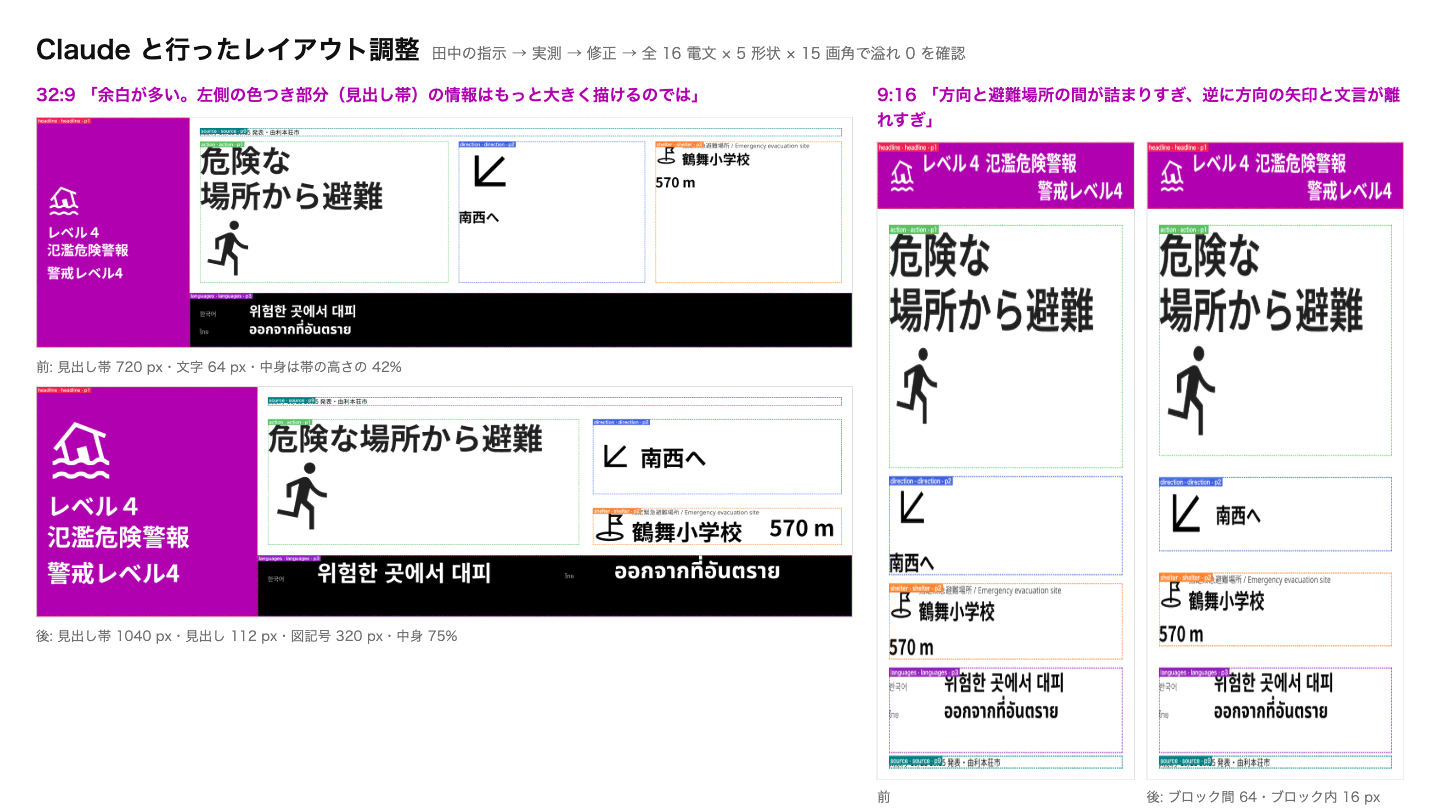
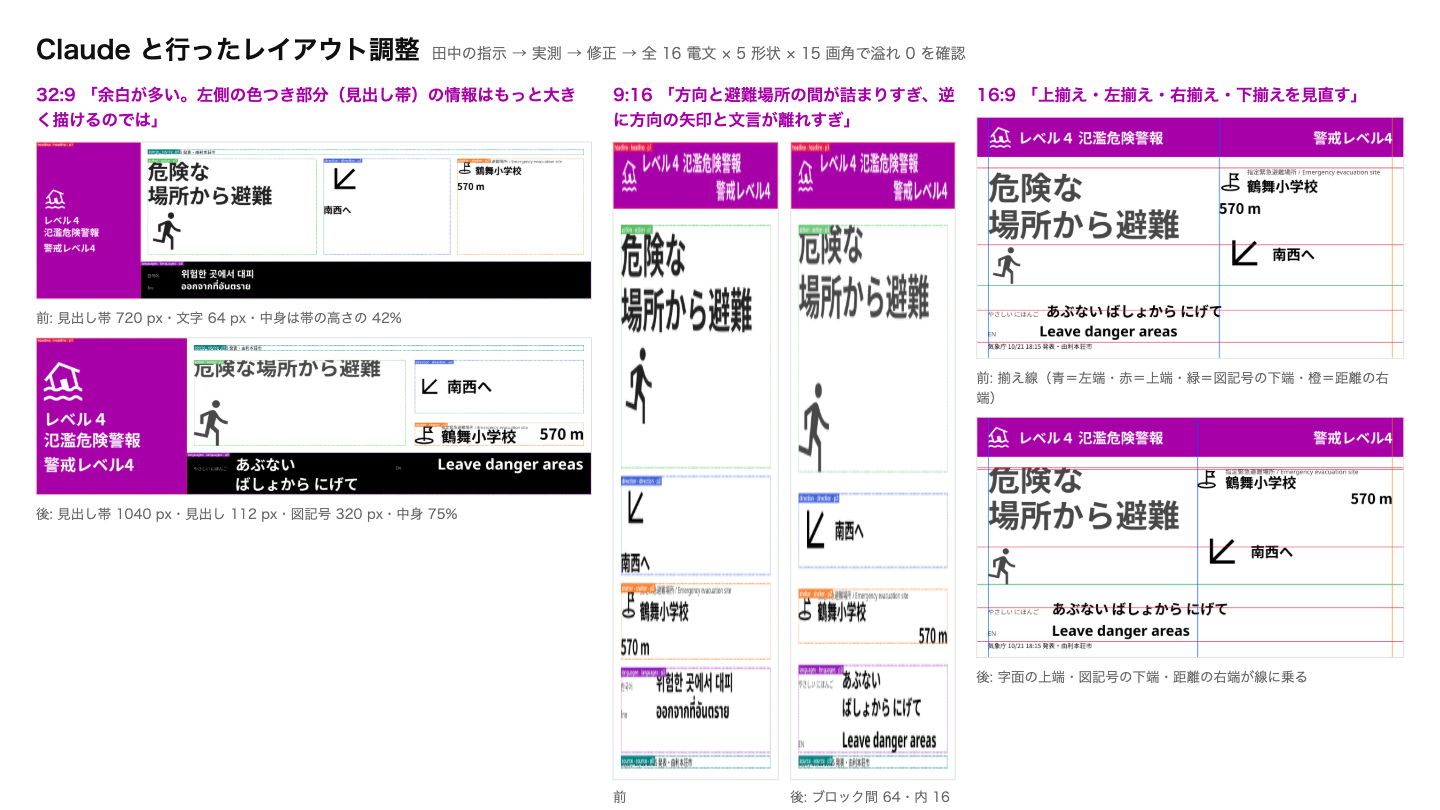
feat(app): cells align on shared lines; stills show the easy Japanese + English pair
Following the owner's review ("align top, left, right and bottom to the grid"):
- Body text is trimmed to the cap height and the baseline (text-box), so the
  first line of every body cell starts on the cell's top edge and cells in one
  row share it; cells clip 24 px outside so kanji above the cap stay visible.
- Each pictogram measures its drawn ink (viewBox margin, stroke, rotation) and
  moves it onto the cell's left line; the action pictogram also sits on the
  cell's bottom line. The box is unchanged, so overflow checks are not affected.
- The distance is right-aligned to the cell's right edge, the language label
  column is a fixed 256, the shelter kind sits 16 above the name.
- 16:9 columns are 1:1 (were 5:4) so an 11-character shelter name fits one line.

Stills are taken at t = 13.5 s, one second into the easy Japanese + English
pair (rule in app/layout/README.md); the admin preview uses 1 s. 19 bulletins x
(5 shapes + 15 aspects) render with no overflow and no missing required cell.

diff --git a/app/app/components/PictogramMark.vue b/app/app/components/PictogramMark.vue
@@ -1,5 +1,5 @@
 <script setup lang="ts">
-const props = defineProps<{ id: string; sizePx: number; rotation?: number }>()
+const props = defineProps<{ id: string; sizePx: number; rotation?: number; alignBottom?: boolean }>()
 
 const SVG_BY_PATH = import.meta.glob<string>('../../public/picto/*.svg', {
   eager: true,
@@ -12,6 +12,37 @@ const PLACEHOLDER_LABEL_MIN_PX = 12
 
 const svg = computed(() => SVG_BY_PATH[`../../public/picto/${props.id}.svg`])
 const labelPx = computed(() => Math.max(PLACEHOLDER_LABEL_MIN_PX, Math.round(props.sizePx * PLACEHOLDER_LABEL_RATIO)))
+const glyph = ref<HTMLElement>()
+const ink = ref({ dx: 0, dy: 0 })
+
+// Each symbol sits inside its viewBox with its own margin (and an arrow's changes as it turns), so the
+// drawn ink, not the box, is moved onto the cell's left line (and onto its bottom line when asked).
+function measureInk() {
+  const svgEl = glyph.value?.querySelector('svg')
+  if (!svgEl) return
+  const vb = svgEl.viewBox.baseVal
+  const box = svgEl.getBBox()
+  const stroke = svgEl.getAttribute('stroke')
+  const half = stroke && stroke !== 'none' ? Number(svgEl.getAttribute('stroke-width') ?? 0) / 2 : 0
+  const angle = ((props.rotation ?? 0) * Math.PI) / 180
+  const cx = vb.x + vb.width / 2
+  const cy = vb.y + vb.height / 2
+  const corners = [
+    [box.x - half, box.y - half],
+    [box.x + box.width + half, box.y - half],
+    [box.x - half, box.y + box.height + half],
+    [box.x + box.width + half, box.y + box.height + half],
+  ].map(([x, y]) => [cx + (x! - cx) * Math.cos(angle) - (y! - cy) * Math.sin(angle), cy + (x! - cx) * Math.sin(angle) + (y! - cy) * Math.cos(angle)])
+  const left = Math.min(...corners.map(([x]) => x!))
+  const bottom = Math.max(...corners.map(([, y]) => y!))
+  ink.value = {
+    dx: -Math.max(0, (left - vb.x) / vb.width),
+    dy: props.alignBottom ? Math.max(0, (vb.y + vb.height - bottom) / vb.height) : 0,
+  }
+}
+
+onMounted(measureInk)
+watch(() => [props.id, props.rotation, props.alignBottom], () => nextTick(measureInk))
 </script>
 
 <template>
@@ -19,9 +50,9 @@ const labelPx = computed(() => Math.max(PLACEHOLDER_LABEL_MIN_PX, Math.round(pro
     class="pictogram"
     :data-pictogram="id"
     :data-pictogram-missing="svg ? undefined : '1'"
-    :style="{ '--size': sizePx, '--label': labelPx, '--rotation': `${rotation ?? 0}deg` }"
+    :style="{ '--size': sizePx, '--label': labelPx, '--rotation': `${rotation ?? 0}deg`, '--ink-dx': ink.dx, '--ink-dy': ink.dy }"
   >
-    <div v-if="svg" class="glyph" aria-hidden="true" v-html="svg" />
+    <div v-if="svg" ref="glyph" class="glyph" aria-hidden="true" v-html="svg" />
     <span v-else class="placeholder">{{ id }}</span>
   </div>
 </template>
@@ -38,7 +69,7 @@ const labelPx = computed(() => Math.max(PLACEHOLDER_LABEL_MIN_PX, Math.round(pro
 .glyph {
   width: 100%;
   height: 100%;
-  transform: rotate(var(--rotation));
+  transform: translate(calc(var(--ink-dx) * 100%), calc(var(--ink-dy) * 100%)) rotate(var(--rotation));
 }
 .glyph :deep(svg) {
   display: block;

diff --git a/app/app/components/ScreenCell.vue b/app/app/components/ScreenCell.vue
@@ -41,7 +41,7 @@ const currentGroup = computed(() => (languageGroups.value.length ? props.languag
     <template v-else-if="cell.role === 'action'">
       <p class="t-action action-text">{{ cell.text.ja }}</p>
       <div class="action-sub">
-        <PictogramMark v-if="cell.pictogram && pictogramPx" :id="cell.pictogram" :size-px="pictogramPx" />
+        <PictogramMark v-if="cell.pictogram && pictogramPx" :id="cell.pictogram" :size-px="pictogramPx" align-bottom />
         <p v-if="cell.text.ja_easy && easyInAction" class="t-guide" lang="ja" data-lang="ja_easy">{{ cell.text.ja_easy }}</p>
       </div>
     </template>
@@ -179,14 +179,22 @@ p {
   align-items: center;
   gap: calc(24 * var(--px));
 }
+.action-sub {
+  margin-top: auto;
+  align-items: flex-end;
+}
 .shelter-text {
   min-width: 0;
+  display: flex;
+  flex-direction: column;
+  gap: calc(16 * var(--px));
 }
 .shelter-kind {
   opacity: var(--shelter-kind-opacity);
 }
 .distance {
   flex: none;
+  margin-left: auto;
   white-space: nowrap;
   font-variant-numeric: tabular-nums;
 }
@@ -202,7 +210,7 @@ p {
   grid-area: 1 / 1;
   display: flex;
   flex-direction: column;
-  gap: calc(8 * var(--px));
+  gap: calc(16 * var(--px));
   visibility: hidden;
 }
 .lang-line {
@@ -215,7 +223,7 @@ p {
 }
 .lang-label {
   flex: none;
-  min-width: calc(200 * var(--px));
+  width: calc(256 * var(--px));
   opacity: var(--lang-label-opacity);
 }
 </style>

diff --git a/app/app/assets/screen.css b/app/app/assets/screen.css
@@ -53,7 +53,9 @@ body {
 .cell {
   min-width: 0;
   min-height: 0;
-  overflow: hidden;
+  overflow: clip;
+  /* Text is trimmed to the cap height; kanji rise about 0.15 em above it, which must stay visible. */
+  overflow-clip-margin: calc(24 * var(--px));
 }
 .cell.is-band {
   background: var(--band);
@@ -101,4 +103,14 @@ body {
 :lang(th) .t-guide,
 .t-guide:lang(th) {
   word-break: normal;
+}
+
+/* Lines are trimmed to the cap height and the baseline, so the first line of every body cell starts on
+   the cell's top edge and cells in one row share a top line whatever their type size. */
+.role-action .t-action,
+.role-action .t-guide,
+.role-direction .t-guide,
+.role-shelter .t-guide,
+.role-shelter .t-fine {
+  text-box: trim-both cap alphabetic;
 }

diff --git a/app/app/pages/admin.vue b/app/app/pages/admin.vue
@@ -23,7 +23,7 @@ interface Catalog {
 
 const PREVIEW_SHAPES: Shape[] = ['16x9', '32x9', '9x16', '1x1']
 const PREVIEW_HEIGHT_PX: Record<Shape, number> = { '16x9': 216, '32x9': 108, '9x16': 300, '1x1': 216, pillar: 300 }
-const PREVIEW_AT_MS = 3000
+const PREVIEW_AT_MS = 1000
 
 const TOKEN_STORAGE_KEY = 'evac-admin-token'
 

diff --git a/app/layout/templates.ts b/app/layout/templates.ts
@@ -13,7 +13,7 @@ export const STACKED_BAND_MIN_PX = 200
 
 const LANDSCAPE: ShapeLayout = {
   id: 'split',
-  columns: [M, '5fr', G, '4fr', M],
+  columns: [M, '1fr', G, '1fr', M],
   rows: [BAND, M, '1fr', G, '1fr', G, 'auto', SOURCE_GAP, 'auto', FOOT],
   areas: [
     'headline headline headline headline headline',

diff --git a/app/layout/README.md b/app/layout/README.md
@@ -19,6 +19,8 @@ Anything not listed here is internal and may change shape without notice. The si
 | `liveLayoutGate(approvals, site, municipality, bulletinId)`, `layoutKey`, `Approvals`, `LiveLayoutGate` | `gate.ts` | the approval gate used by `/api/live-layout`: `'ok'` only for an approved bulletin at a site with auto publish on, otherwise `'auto-publish-off'` or `'unapproved'` (the 403 `data.reason`). `Approvals` is the shape of `data/approvals.json` |
 | `pickAmbient(siteKey, epochMs, sceneId?)`, `AMBIENT_SCENES`, `AmbientScene`, `overlayGeometry` | `ambient/index.ts` | the ambient layer: hourly deterministic pick of scene, D21 overlay corner and seed; scenes are pure `render(ctx, t, seed, shape)`. See `ambient/README.md` |
 
+The language band shows two languages for 2.5 s each: easy Japanese + English, Simplified + Traditional Chinese, Korean + Thai, Vietnamese + Filipino, Indonesian (12.5 s a round). Stills (gallery, review pages, key visuals, before/after comparisons) are taken with `clock=virtual&t=13500` (or any 1000 + n × 12500 ms), one second into the easy Japanese + English pair, after it has faded in.
+
 ## What the rendered screen reports
 
 The root `.evac-screen` element carries `data-shape`, `data-template`, `data-variant`, `data-level`, `data-ready="1"` once fonts are loaded and the fit loop has finished, `data-dropped="<cell id>:<reason>,..."` (reasons: `no-slot`, `duplicate-role`, `overflow`), `data-overflow="<cell id>:<lang>,..."` (what still overflows after every optional cell was dropped; `lang` is the text key that spilled — `ja` for the headline and other code-written text, `ja_easy` / `en` / `zh_hans` / `zh_hant` / `ko` for Writer text, `pictogram` when only the pictogram box spills; `screen` when the page itself overflows), `data-headline-scale="0.85"` when a 9:16 or 1:1 headline was stepped down and `data-missing-required`. Each cell carries `data-cell-id`, `data-role`, `data-priority` and `data-motion`.
